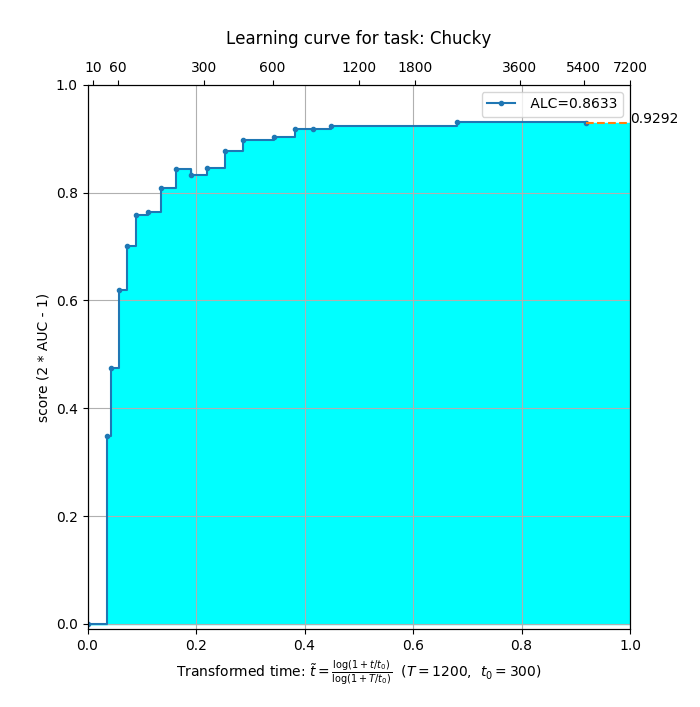
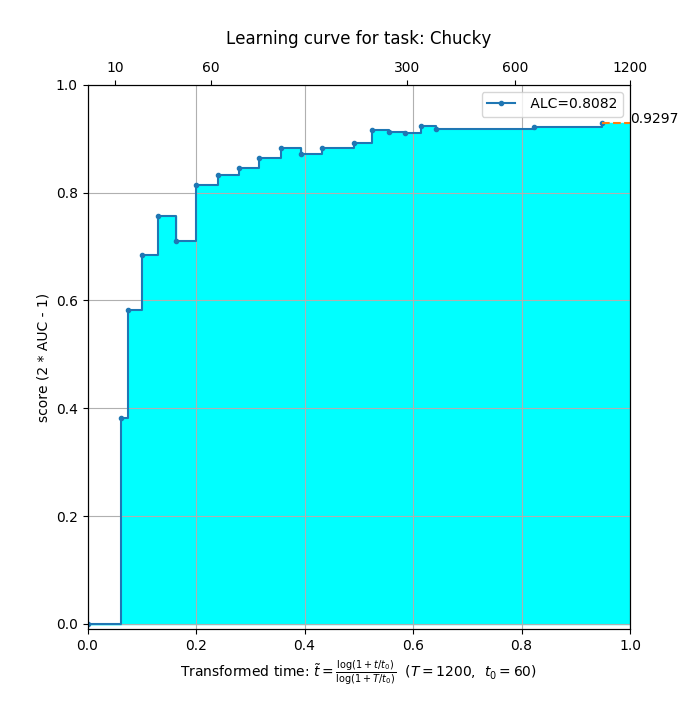
fix V1 public dataset

diff --git a/README.md b/README.md
@@ -56,8 +56,8 @@ As Fast AutoAugment, we search the augmentation policies that match the density 
 
 | metrics | Munster |  Chucky |   Pedro |   Decal |  Hammer |
 |:-------:|--------:|--------:|--------:|--------:|--------:|
-| ALC     |  0.9818 |  0.8633 |  0.8300 |  0.8935 |  0.8764 |
-| <sub>2*AUC-1</sub> |  0.9976 |  0.9292 |  0.9147 |  0.9247 |  0.9106 |
+| ALC     |  0.9421 |  0.8082 |  0.7948 |  0.8647 |  0.8147 |
+| <sub>2*AUC-1</sub> |  0.9992 |  0.9297 |  0.9241 |  0.9233 |  0.8863 |
 | curves  | ![](./assets/public_final_result_v1_munster.png) | ![](./assets/public_final_result_v1_Chuckey.png) | ![](./assets/public_final_result_v1_pedro.png) | ![](./assets/public_final_result_v1_Decal.png) | ![](./assets/public_final_result_v1_Hammer.png) |
 
 #### P1.XLARGE
